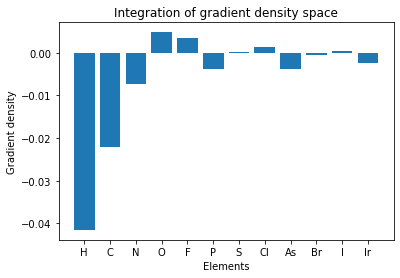
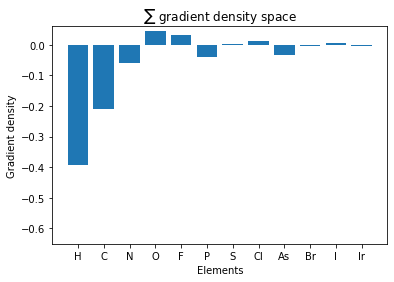
Update figures

Changed region(s): [[0.0, 0.0288, 1.0, 0.9784]]

diff --git a/docs/sections/evaluation.tex b/docs/sections/evaluation.tex
@@ -209,7 +209,7 @@ In first network architectures, overfitting was a mayor problem.
 With regularization and other techniques the issue of overfitting could be reduced.
 What became clear pretty early in the tests was that convolution layers did not improve prediction accuracy as expected.
 When testing different filter configurations, the network performed best the smaller the filters got, and the fewer convolution layers were used.
-In the end, the best performing Convolutional Neural Network found had two Convolution Steps with a filter size of $2 \times 1$ for the first layer, and a filter size
+In the end, the best performing convolutional neural network found had two Convolution Steps with a filter size of $2 \times 1$ for the first layer, and a filter size
 of $4 \times 1$ for the second layer Figure~\ref{fig:cnn-architecture}.
 After the convolution layers 3 fully connected layers and the output layer followed.
 Dropout and batch normalization layers were added in between to reduce overfitting.
@@ -283,9 +283,8 @@ the network performed poorly on were the more important features \ref{fig:transf
       \includegraphics[width=1.0\textwidth]{figures/regression/fourier/transfer/scatterT0.png}
     \endminipage
     \caption[Prediction of autocorrelation features from LEFD]{
-    Left: Importance of features for the neural networks discussed in \cite{friederich_dos}.
-    Middle: Prediction of Z-2 features from fourier features.
-    Right: Prediction of T-0 features from fourier features. 
+    Importance of features for the neural networks (left). Reprinted from \cite{friederich_dos}.
+    Prediction of Z-2 features from fourier features (middle) and prediction of T-0 features from fourier features (right). 
     The network was trained on 80\% of the data points.
     }
     \label{fig:transfer_result}
@@ -403,7 +402,7 @@ This will in effect also reduce the speed of hyperparameter optimization.
 Later on the architectures found by the hyperparameter optimizer with 20 data augmentation steps, 
 models with higher data augmentation steps were trained in an effort to improve prediction accuracy further.
 
-\subsection{Convolution Neural Network}
+\subsection{Convolution neural network}
 
 Similar to the features generated by EFD, the output of SNAP can be shaped into a feature matrix again.
 Here, each layer will correspond to one species of atoms.
@@ -472,6 +471,7 @@ Significantly increasing $n_{max}$ might further improve prediction accuracy.
   \caption[Learning curves for different SNAP resolutions]{
   Networks for SNAP features trained on different train fractions.
   All networks were trained on the hyperparameters found for the corresponding $n_{max}$ and $l_{max}$.
+  $|v|$ is the size of the feature vector.
   Networks were trained with 10 data augmentation steps and a cutoff radius of $12 \AA$.
   Hyperparameter search was run on a training split of 80\%.
   }
@@ -617,12 +617,12 @@ If this hypothesis holds true will have to be explored in further experiments.
 
 \begin{figure}[!htb]
   \centering
-  \minipage{0.4\textwidth}
+  \minipage{0.5\textwidth}
     \includegraphics[width=1.0\textwidth]{figures/regression/snap/aug-5steps-30per.png}
   \endminipage\hfill
-  \minipage{0.4\textwidth}
+  \minipage{0.5\textwidth}
   \includegraphics[width=1.0\textwidth]{figures/regression/snap/aug-30steps-30per.png}
-  \endminipage
+  \endminipage\hfill
   %\hfill  
   %\minipage{0.3333\textwidth}
   %  \includegraphics[width=1.0\textwidth]{figures/regression/snap/augmentation.png}
@@ -988,11 +988,10 @@ The gradient also greatly varies between models trained on different $n_{max}$ a
       The model on the left was trained on $n_{max} = 9, l_{max}=3$ while the model on the right was trained on 
       $n_{max}=8, l_{max}=4$. 
       While there are some similarities in the 3D density plot, the integration over the entire density space 
-      seems to vastly differ.
+      seems to differ significantly.
    }
   \label{fig:snap-gradient-model}
 \end{figure}
-
 
 All these uncertainties make a general conclusion about the relevance of the gradient difficult.
 While there seems to be some correlation between what is expected from the gradient and what 

diff --git a/docs/thesis.tex b/docs/thesis.tex
@@ -35,9 +35,9 @@
 
 %% You can put a logo in the ``logos'' directory and include it here
 %% instead of the SDQ logo
-%\grouplogo{AImat_logo.png}
+\grouplogo{aimat-logo}
 %% Alternatively, you can disable the group logo
-\nogrouplogo
+%\nogrouplogo
 
 %% The reviewers are the professors that grade your thesis
 \reviewerone{Prof. Pascal Friderich}
